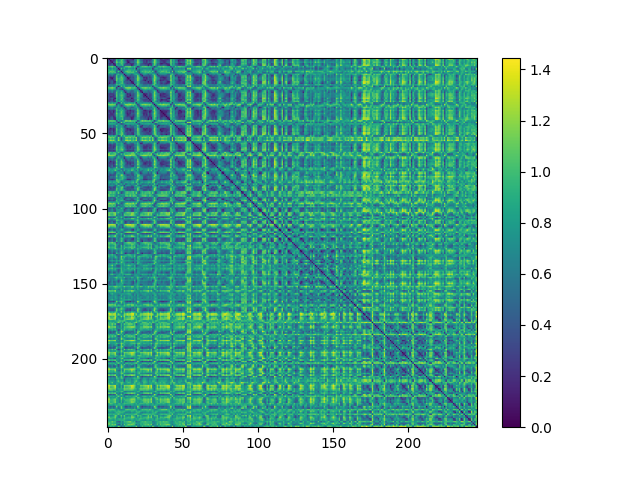
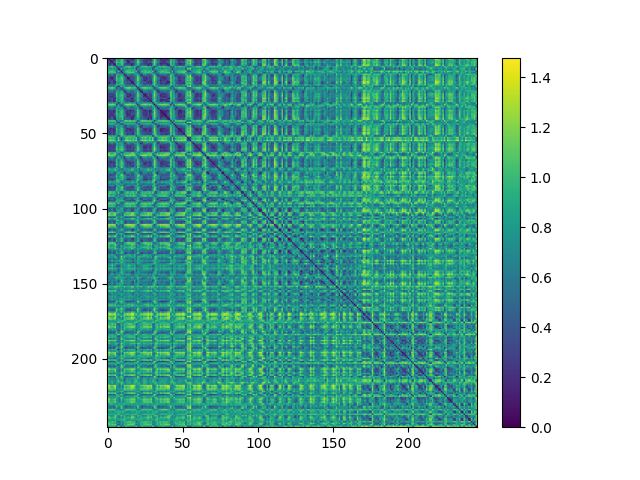
Add new clustering, improve ICP registration, global registration

diff --git a/object_memory/object_memory.py b/object_memory/object_memory.py
@@ -22,6 +22,8 @@ from utils.fpfh_register import register_point_clouds, evaluate_transform, downs
 from .object_finder_phrases import check_if_floor
 from .lora_module import LoraRevolver, LoraConfig
 
+from utils.IoU_ops import calculate_obj_aligned_3d_IoU
+
 print("\033[34mLoaded modules for object_memory.object_memory\033[0m")
 
 def default_load_rgb(path: str) -> np.ndarray:
@@ -523,6 +525,147 @@ class ObjectMemory():
         for i, _ in enumerate(self.memory):
             self.memory[i].id = i
 
+    def recluster_via_clustering_and_IoU(self, distance_func=None, embedding_distance_threshold=0.4, eps=0.4, min_points_per_cluster=150, IoU_threshold=0.4):
+        if distance_func == None:
+            def df(all_obj_embs, all_obj_centroids):       # expects N x D 
+                norms = np.linalg.norm(all_obj_embs, axis=1, keepdims=True)
+                normalized_embeddings = all_obj_embs / norms
+
+                emb_distance_matrix = 1 - np.dot(normalized_embeddings, normalized_embeddings.T)
+                
+                # compute pairwise distances, NxNx3
+                centroid_distances = np.linalg.norm(all_obj_centroids[np.newaxis, :, :] - all_obj_centroids[:, np.newaxis, :])
+                
+                return emb_distance_matrix
+            
+            distance_func = df
+
+        all_mean_embs = np.array([obj.mean_emb for obj in self.memory])
+        all_centroids = np.array([obj.centroid for obj in self.memory])
+        distance_matrix = df(all_mean_embs, all_centroids)
+
+        import matplotlib.pyplot as plt
+        cax = plt.imshow(distance_matrix)
+        cbar = plt.colorbar(cax)
+        plt.savefig('/home2/aneesh.chavan/instance-based-loc/lora_sims.png')
+
+        # import pdb;
+        # pdb.set_trace()
+
+        # sklearn agglomerative clustering
+        self._log("Clustering agglomeratively")
+        agg_clustering = AgglomerativeClustering(
+                            n_clusters=None, 
+                            distance_threshold=embedding_distance_threshold, 
+                            metric='precomputed', 
+                            linkage='average')
+        agg_clustering.fit(distance_matrix)
+
+        # Get the cluster labels
+        labels = agg_clustering.labels_
+
+        unique_labels = set(labels)
+
+        self._log(f"{len(unique_labels)} clusters initially")
+
+        def is_point_in_array(points_array, query_point):
+            return np.any(np.all(points_array == query_point, axis=1))
+
+        # DBScan within clusters ONLY
+        objects_post_dbscan = []
+        for u in unique_labels:
+            # print("debugs: ", len(objects_post_dbscan), " label ", u)
+
+            # get objects assigned label `u`
+            objs_to_consider = []
+            for i, obj in enumerate(self.memory):
+                if labels[i] == u:
+                    objs_to_consider.append(obj)
+
+            # print(len(objs_to_consider), " objs to consider")
+
+            # dbscan these points
+            all_points = np.concatenate([obj.pcd for obj in objs_to_consider], axis=-1).T  # Shape: 3xN
+            point_cloud = o3d.geometry.PointCloud()
+            point_cloud.points = o3d.utility.Vector3dVector(all_points)
+            dbscan_labels = np.array(point_cloud.cluster_dbscan(eps=eps, min_points=min_points_per_cluster, print_progress=False))
+
+            # print(dbscan_labels, np.unique(dbscan_labels))
+
+            # assign each object to 
+            new_object_assignments = np.full(len(objs_to_consider), -1)
+            for index, obj in enumerate(objs_to_consider):
+                query_point = obj.pcd[:,0]
+                for label in np.unique(dbscan_labels):
+                    if label == -1:
+                        continue
+
+                    cluster_points = all_points[dbscan_labels == label]
+                    if is_point_in_array(cluster_points, query_point):
+                        if new_object_assignments[index] != -1:
+                            self._log("\t\tMULTIPLE LABELS IN COMBINED RECLUSTERING")
+
+                        new_object_assignments[index] = label
+
+            # create new objects for each dbscan cluster 
+            dbscanned_objects = []
+            for label in np.unique(dbscan_labels):
+                if label == -1:
+                    continue
+
+                to_combine = [objs_to_consider[i] for i in range(len(objs_to_consider)) if new_object_assignments[i] == label] 
+                if len(to_combine) == 0:
+                    continue
+
+                combined_obj_info = to_combine[0]
+                for obj_info in to_combine[1:]:
+                    combined_obj_info = combined_obj_info + obj_info
+                
+                dbscanned_objects.append(combined_obj_info)
+
+            # add the new objects into objects_post_dbscan, update count
+            objects_post_dbscan = objects_post_dbscan + dbscanned_objects
+
+        # reassign memory
+        pre_IoU_memory = objects_post_dbscan
+
+        # check IoU between all new memory objects
+        # distance_matrix = df(all_mean_embs, all_centroids, distance_threshold=distance_threshold)
+        IoUs = np.zeros((len(pre_IoU_memory), len(pre_IoU_memory)))
+        IoU_threshold = 1 - IoU_threshold       # agg clustering discards high values, we want the opposite
+        for i in range(len(pre_IoU_memory)):
+            for j in range(i, len(pre_IoU_memory)):
+                IoUs[i][j] = 1 - calculate_obj_aligned_3d_IoU(np.asarray(pre_IoU_memory[i].pointcloud.points),
+                                                          np.asarray(pre_IoU_memory[j].pointcloud.points))
+                IoUs[j][i] = IoUs[i][j]                                                          
+
+        # sklearn agglomerative clustering
+        self._log("Clustering with IoUs")
+        agg_clustering = AgglomerativeClustering(n_clusters=None, distance_threshold=IoU_threshold, metric='precomputed', linkage='complete')
+        agg_clustering.fit(IoUs)
+
+        # Get the cluster labels
+        labels = agg_clustering.labels_
+
+        unique_labels = set(labels)
+
+        self._log(f"{len(unique_labels)} objects clustered")
+
+        # reassign memory
+        new_memory = [None for _ in unique_labels]
+        for new_label, old_obj_info in zip(labels, pre_IoU_memory):
+            if new_memory[new_label] == None:
+                new_memory[new_label] = old_obj_info
+            else:
+                new_memory[new_label] = new_memory[new_label] + old_obj_info
+
+        
+        # save new memory, fix IDs
+        print("Clustering done")
+        self.memory = new_memory
+        for i, _ in enumerate(self.memory):
+            self.memory[i].id = i
+
     def save(self, save_directory: str):
         os.makedirs(save_directory, exist_ok=True)
 
@@ -755,9 +898,9 @@ class ObjectMemory():
         del sv
 
         print("Phrases: ", detected_phrases)
-        print(cosine_similarities)
-        print("                 V?")
-        print(closest_similarities)
+        # print(cosine_similarities)
+        # print("                 V?")
+        # print(closest_similarities)
         print("Assignments being considered: ", assns_to_consider)
 
         assn_data = [ assn for assn in assns_to_consider ]

diff --git a/utils/fpfh_register.py b/utils/fpfh_register.py
@@ -31,26 +31,37 @@ def register_point_clouds(source, target, voxel_size, global_dist_factor = 1.5, 
         source_down, source_fpfh = downsample_and_compute_fpfh(source, voxel_size)
         target_down, target_fpfh = downsample_and_compute_fpfh(target, voxel_size)
 
+
         distance_threshold = voxel_size * global_dist_factor
         # print(":: RANSAC registration on downsampled point clouds.")
         # print("   Since the downsampling voxel size is %.3f," % voxel_size)
         # print("   we use a liberal distance threshold %.3f." % distance_threshold)
-        result_ransac = o3d.pipelines.registration.registration_ransac_based_on_feature_matching(
-            source_down, target_down, source_fpfh, target_fpfh, True,
-            distance_threshold,
-            o3d.pipelines.registration.TransformationEstimationPointToPoint(False),
-            3, [
-                o3d.pipelines.registration.CorrespondenceCheckerBasedOnEdgeLength(
-                    0.9),
-                o3d.pipelines.registration.CorrespondenceCheckerBasedOnDistance(
-                    distance_threshold)
-            ], o3d.pipelines.registration.RANSACConvergenceCriteria(4000000, 0.99))
+        # result_ransac = o3d.pipelines.registration.registration_fast_based_on_feature_matching(
+        #     source_down, target_down, source_fpfh, target_fpfh, True,
+        #     distance_threshold,
+        #     o3d.pipelines.registration.TransformationEstimationPointToPoint(False),
+        #     3, [
+        #         o3d.pipelines.registration.CorrespondenceCheckerBasedOnEdgeLength(
+        #             0.9),
+        #         o3d.pipelines.registration.CorrespondenceCheckerBasedOnDistance(
+        #             distance_threshold)
+        #     ], o3d.pipelines.registration.RANSACConvergenceCriteria(4000000, 0.99))
+
+        fgr_option = o3d.pipelines.registration.FastGlobalRegistrationOption(
+        maximum_correspondence_distance=0.5,  # Adjust based on your data
+        )
+        
+        # Perform fast global registration
+        result_ransac = o3d.pipelines.registration.registration_fgr_based_on_feature_matching(
+            source_down, target_down, source_fpfh, target_fpfh, fgr_option
+        )
 
         # Refine the registration using ICP
         result_icp = o3d.pipelines.registration.registration_icp(
             source_down, target_down, voxel_size*local_dist_factor, result_ransac.transformation,
             o3d.pipelines.registration.TransformationEstimationPointToPoint()
         )
+
     except:
         result_icp = o3d.pipelines.registration.registration_icp(
             source, target, voxel_size*local_dist_factor, np.eye(4),

diff --git a/tum_localisation_trial.py b/tum_localisation_trial.py
@@ -136,10 +136,11 @@ def main(args):
         # Remove below floors
         # memory.remove_points_below_floor()
 
-        # Recluster
+        ##################               Recluster
         # memory.recluster_objects_with_dbscan(eps=.1, min_points_per_cluster=600, visualize=True)
         # memory.recluster_via_agglomerative_clustering(distance_threshold=2000)
-        memory.recluster_via_combined(eps=0.15, embedding_distance_threshold=0.4)
+        # memory.recluster_via_combined(eps=0.15, embedding_distance_threshold=0.4)
+        memory.recluster_via_clustering_and_IoU(eps=0.15, embedding_distance_threshold=0.4, IoU_threshold=0.4)
 
         print("\nMemory is")
         print(memory)
@@ -171,6 +172,8 @@ def main(args):
     else:
         memory.load(args.memory_load_path)
         print("Memory loaded")
+
+    exit(0)
 
     ########### begin localisation ############
 
@@ -357,7 +360,7 @@ if __name__ == "__main__":
         "--load-memory",
         type=bool,
         help="should memory be loaded from a file",
-        default=True
+        default=False
     )
     parser.add_argument(
         "--memory-load-path",

diff --git a/utils/IoU_ops.py b/utils/IoU_ops.py
@@ -1,5 +1,6 @@
 import numpy
 import open3d as o3d
+import sys, os
 sys.path.append(os.path.join(os.getcwd(), "Objectron"))
 
 def calculate_3d_IoU(pcd1, pcd2):
